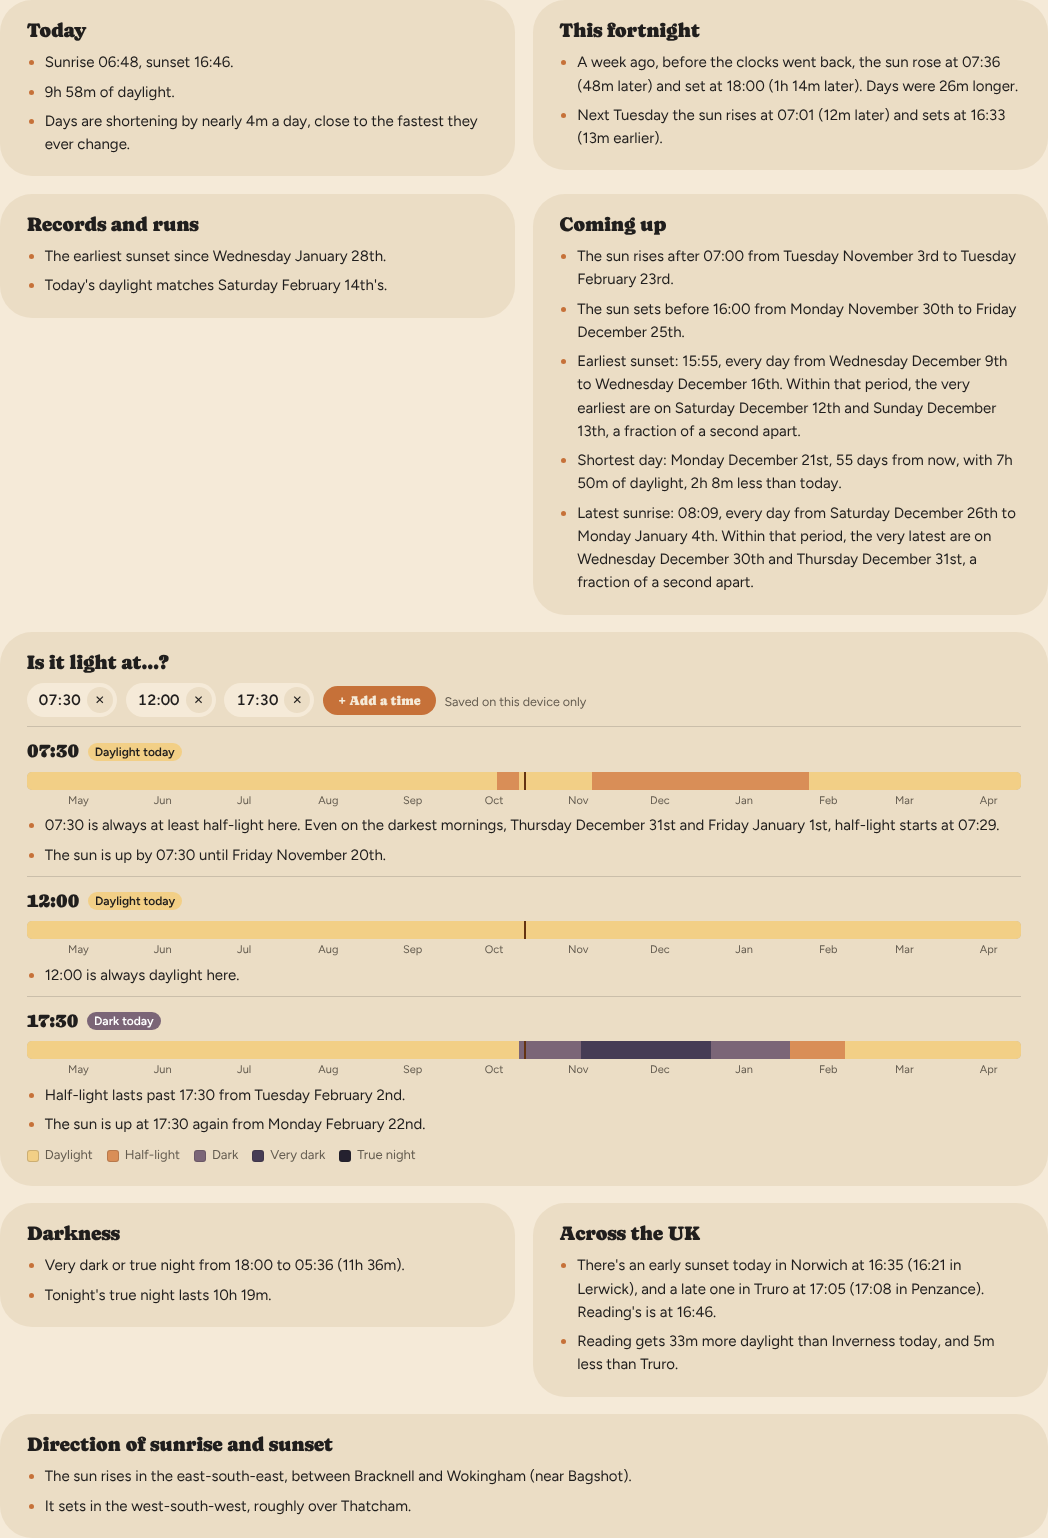
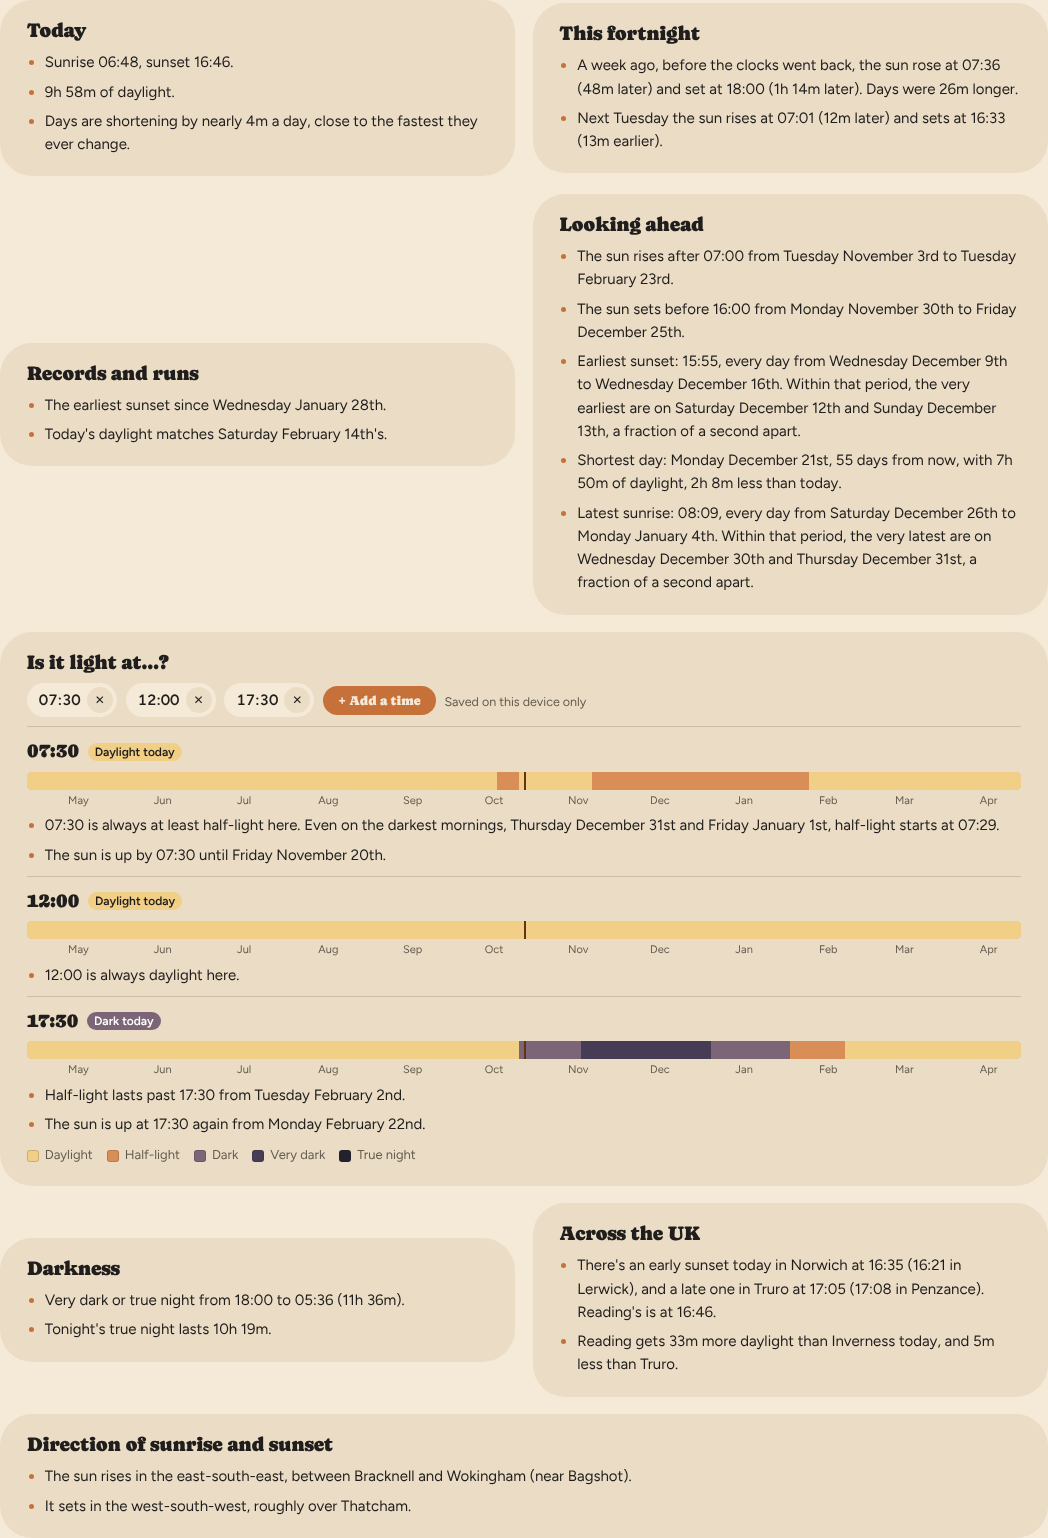
'Looking ahead'; side-by-side sentence cards centred (for John to see)
Claude-Session: https://claude.ai/code/session_01BsvHLKDMCYVanWPFUm8Pot

diff --git a/src/styles/global.css b/src/styles/global.css
@@ -100,7 +100,7 @@ body { margin: 0; background: var(--color-bg); }
 .ribbon-vstrip button { position: absolute; left: 0; right: 0; border: 0; padding: 0; cursor: pointer; }
 
 /* The sentence groups, two to a row on a computer (as the mock-up). */
-.groups { display: grid; grid-template-columns: 1fr 1fr; gap: var(--space-4); align-items: start; }
+.groups { display: grid; grid-template-columns: 1fr 1fr; gap: var(--space-4); align-items: center; /* side-by-side cards centred on each other (John, 28 October) */ }
 .group { padding: var(--space-5, 20px) var(--space-6); gap: var(--space-2); }
 .group ul { margin: 0; padding-left: 18px; display: flex; flex-direction: column; gap: 6px; }
 .group li::marker { color: var(--color-accent); }

diff --git a/scripts/check-sentences.ts b/scripts/check-sentences.ts
@@ -43,7 +43,7 @@ check('Reading, Tuesday October 27th 2026 at 09:02: every group', () => {
       'The earliest sunset since Wednesday January 28th.',
       "Today's daylight matches Saturday February 14th's.",
     ] },
-    { heading: 'Coming up', sentences: [
+    { heading: 'Looking ahead', sentences: [
       'The sun rises after 07:00 from Tuesday November 3rd to Tuesday February 23rd.',
       'The sun sets before 16:00 from Monday November 30th to Friday December 25th.',
       'Earliest sunset: 15:55, every day from Wednesday December 9th to Wednesday December 16th. Within that period, the very earliest are on Saturday December 12th and Sunday December 13th, a fraction of a second apart.',

diff --git a/src/lib/sentences/index.ts b/src/lib/sentences/index.ts
@@ -19,7 +19,7 @@ export function allGroups(ctx: SkyContext, times: TimeOfDay[]): Group[] {
     { heading: 'Today', sentences: todaySentences(ctx) },
     { heading: 'This fortnight', sentences: fortnightSentences(ctx) },
     { heading: 'Records and runs', sentences: recordSentences(ctx) },
-    { heading: 'Coming up', sentences: comingUpSentences(ctx) },
+    { heading: 'Looking ahead', sentences: comingUpSentences(ctx) }, // was "Coming up" (John, 28 October)
     ...times.map((t) => ({ heading: `Is it light at ${t}?`, sentences: lightAtSentences(ctx, t) })),
     { heading: 'Darkness', sentences: darknessSentences(ctx) },
     { heading: 'Across the UK', sentences: acrossUkSentences(ctx) },

diff --git a/src/App.tsx b/src/App.tsx
@@ -94,7 +94,7 @@ function Place({ d, now }: { d: District; now: Date }) {
         <h3>Next 24 hours</h3>
         {narrow ? <SkyRibbonNarrow r={r} /> : <SkyRibbonWide r={r} />}
       </section>
-      <SentenceGroups groups={groups} after={{ 'Coming up': <LightAtCard key="light-at" times={times} lightAt={lightAt} narrow={narrow} onChange={changeTimes} /> }} />
+      <SentenceGroups groups={groups} after={{ 'Looking ahead': <LightAtCard key="light-at" times={times} lightAt={lightAt} narrow={narrow} onChange={changeTimes} /> }} />
       <CompareCard d={d} today={today} now={now} />
       <YearCards v={year} narrow={narrow} place={`${d.name} (${d.code})`} d={d} />
     </>

diff --git a/src/lib/sentences/comingUp.ts b/src/lib/sentences/comingUp.ts
@@ -1,4 +1,4 @@
-// "Coming up" (SPEC §6): what happens in the next three months, in date order.
+// "Coming up", headed "Looking ahead" on the page (SPEC §6; John, 28 October): what happens in the next three months, in date order.
 //
 // - Whole hours crossed, the soonest for sunrise and the soonest for sunset only (John,
 //   27 October): "The sun rises after 07:00 from Tuesday November 3rd to Tuesday February

diff --git a/CLAUDE.md b/CLAUDE.md
@@ -936,3 +936,13 @@ John:** add `lightreader.baish.net` to the lightreader project in Vercel (not an
 project), switch on Web Analytics, then Search Console, the baish.net hub card and the
 overview PDF (PLAN stage 7). In clockwheel, when there's access: Lightreader on the house
 style's list of 24-hour exceptions.
+
+### 2026-10-28 — "Looking ahead"; side-by-side cards centred (branch `claude/nice-goodall-j1r6wu`, not yet on `main`)
+
+**John:** "Coming up" renamed "Looking ahead" (the heading in `sentences/index.ts`, the
+`after` key in `App.tsx`, the check); and Darkness to sit vertically centred against Across
+the UK. **What:** `.groups` now centres side-by-side cards (`align-items: center`), which
+does that, but also floats "Records and runs" halfway down beside the much taller "Looking
+ahead"; picture `design/previews/fl-after-sentences-wide.png` sent to John to decide
+whether to keep it for every pair. **Verified:** `npx tsc -b`, lint, `npm run check`
+(14 + 14 + 12); 1200px and 390px with touch, no errors, no sideways scroll. Not merged.
